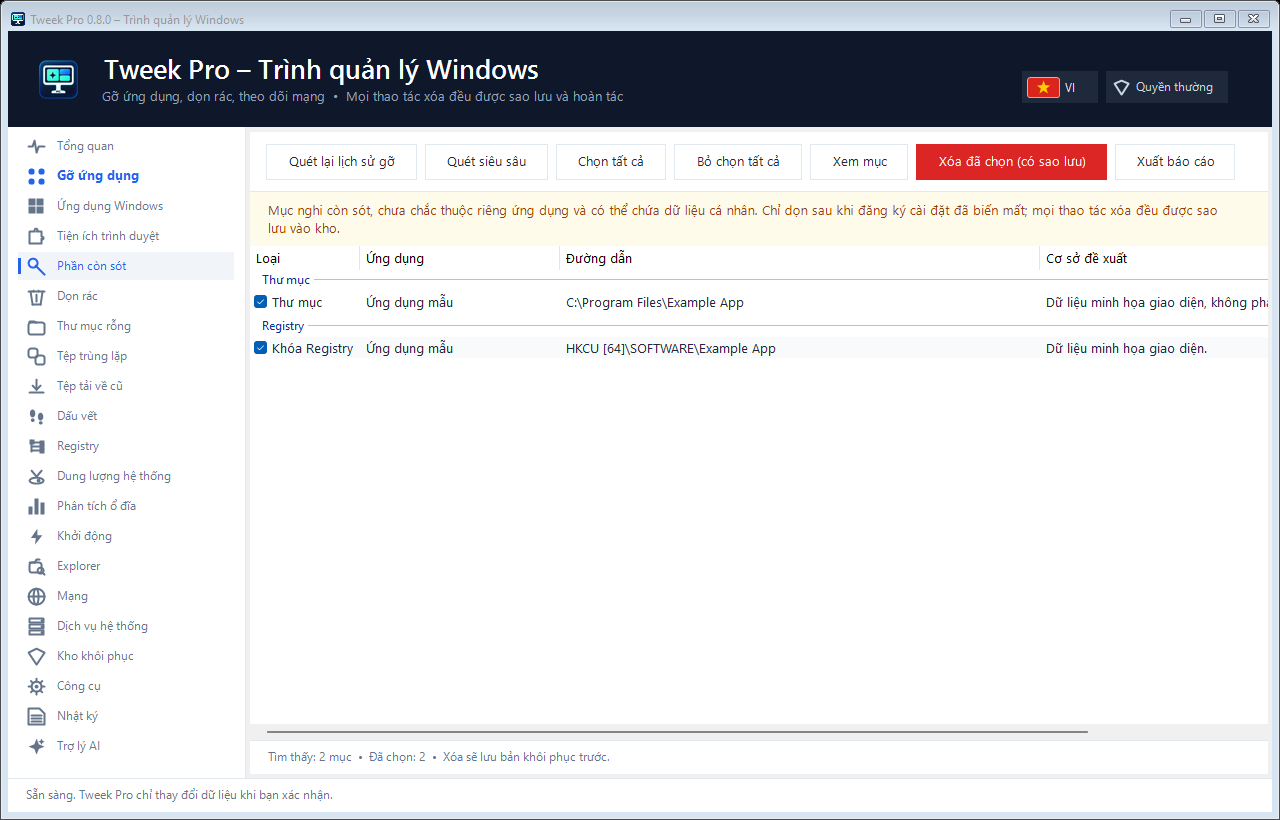
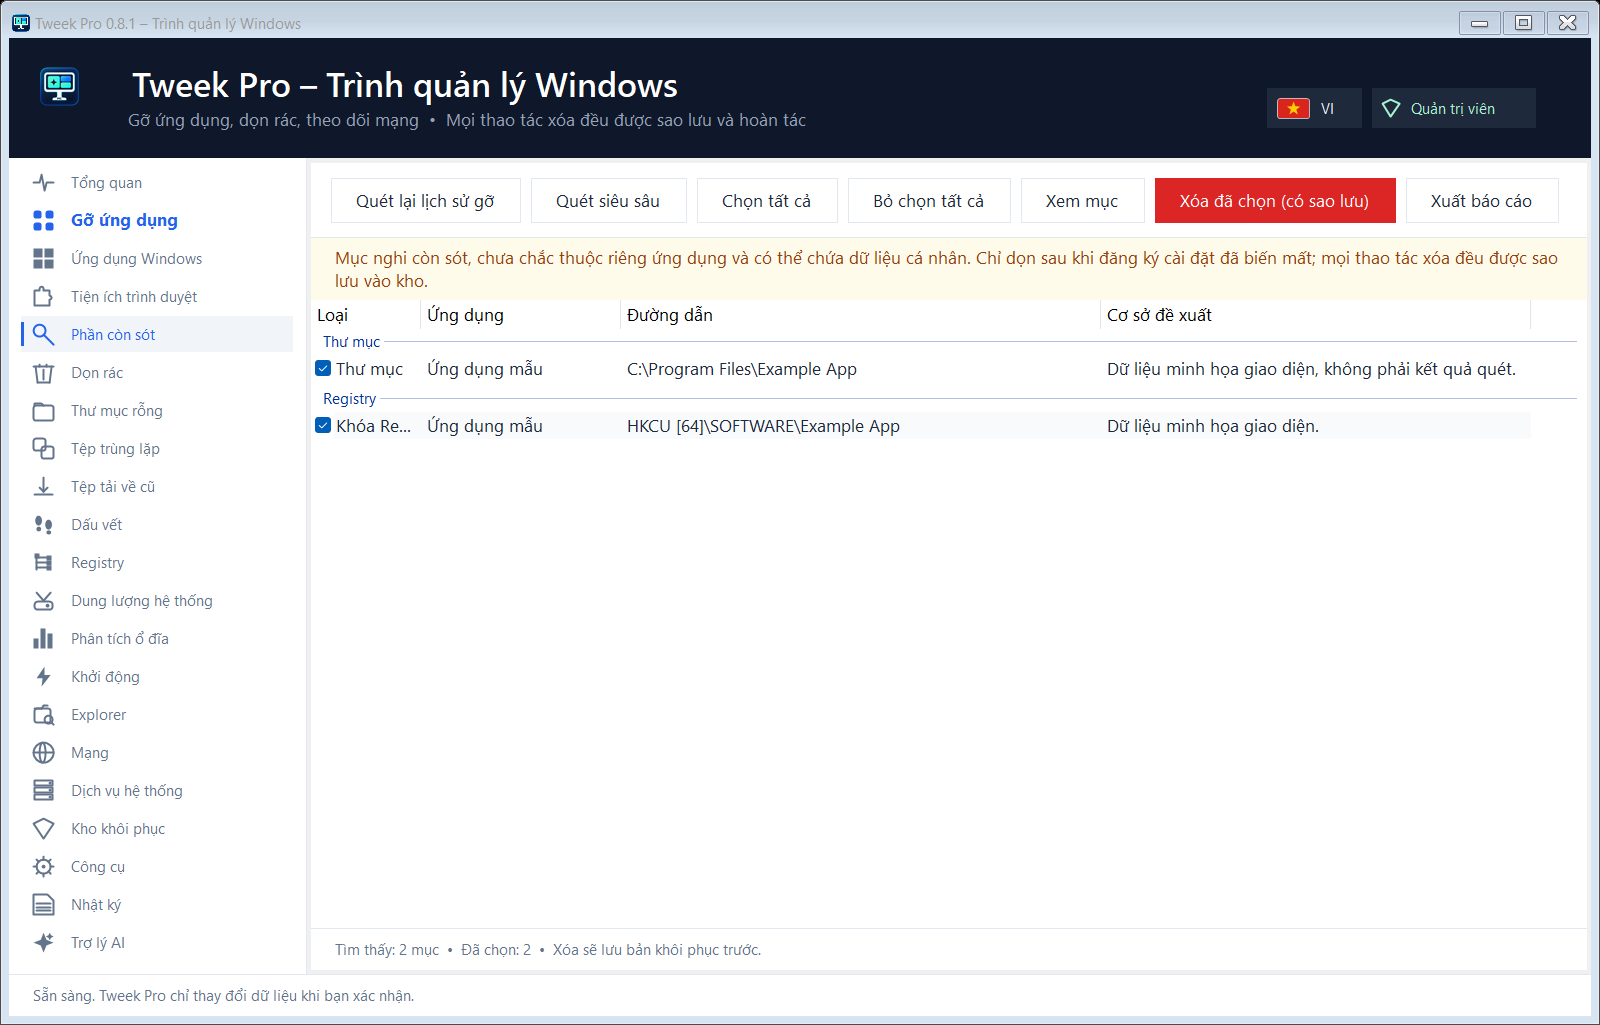
Release v0.8.1
- **Thanh tiêu đề gọn hơn**: nút ngôn ngữ có cờ và mã VI/EN, nhãn quyền có biểu tượng khiên và nền tối nhẹ; hai mục cùng chiều cao, căn thẳng hàng.

- **Điều hướng dễ dùng**: hiển thị toàn bộ chức năng theo thứ tự trong một danh sách dọc; bỏ tiêu đề nhóm, chữ Điều hướng và nút thu gọn; giảm khoảng trống trên cùng, tự co chiều cao hàng để hiện đủ 21 mục mà không cần cuộn ở kích thước cửa sổ thông thường. Mục **Gỡ ứng dụng** in đậm, màu nổi bật; hàng gọn hơn để thấy nhiều chức năng, thanh bên không tự nhảy khi đổi tab.

diff --git a/App.cs b/App.cs
@@ -24,7 +24,7 @@ namespace TweekPro {
   ImageList appIcons=new ImageList(); Label appCount=new Label();
   bool busy;string inventoryError;string sessions=Core.Paths.Sessions;Icon brandIcon,brandIconSmall;CheckBox pupOnly=new CheckBox();
   Core.Settings settings=Core.Settings.Load(Core.Paths.SettingsFile);
-  public const string Version="0.8.0";
+  public const string Version="0.8.1";
   public const string AppTitle="Tweek Pro";
   public const string Tagline="Trình quản lý Windows";
 

diff --git a/README.md b/README.md
@@ -252,7 +252,7 @@ Chưa bật/tắt tiện ích trình duyệt tại chỗ (chỉ gỡ). Cài bả
 
 ## Lịch sử phiên bản
 
-### 0.8.1 (chưa phát hành)
+### 0.8.1 (27/09/2026)
 
 - **Thanh tiêu đề gọn hơn**: nút ngôn ngữ có cờ và mã VI/EN, nhãn quyền có biểu tượng khiên và nền tối nhẹ; hai mục cùng chiều cao, căn thẳng hàng.
 
